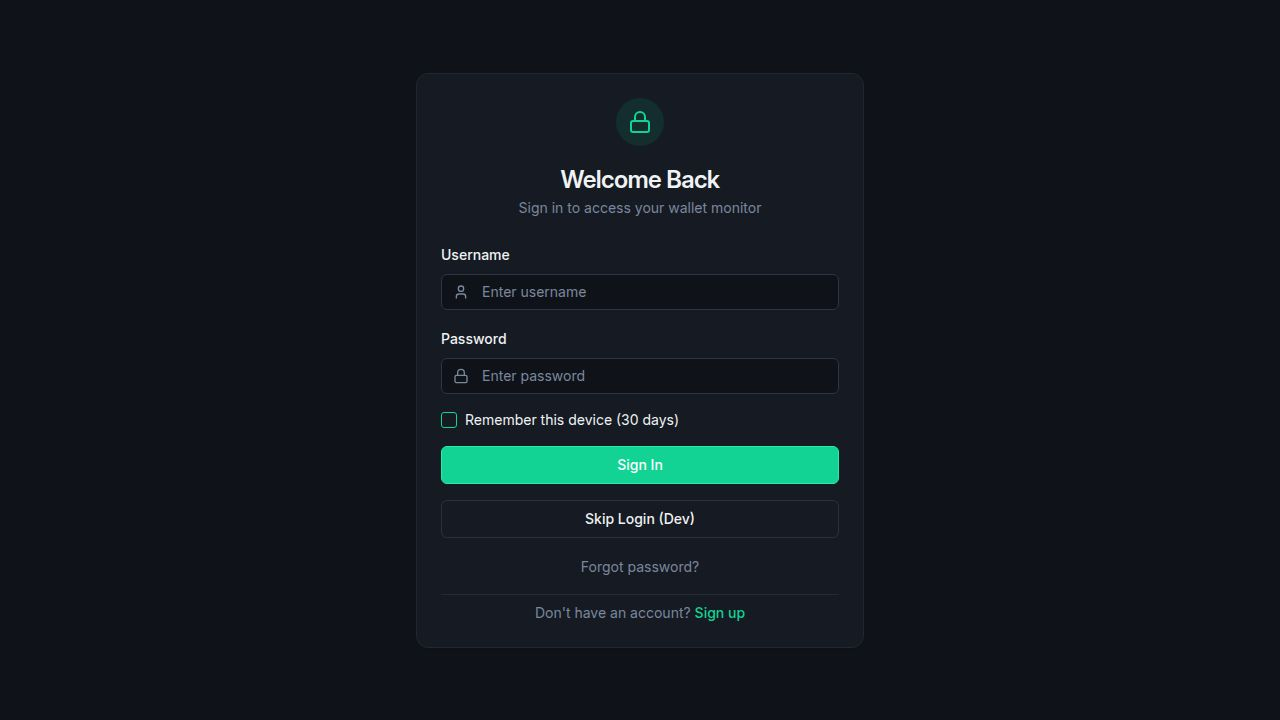
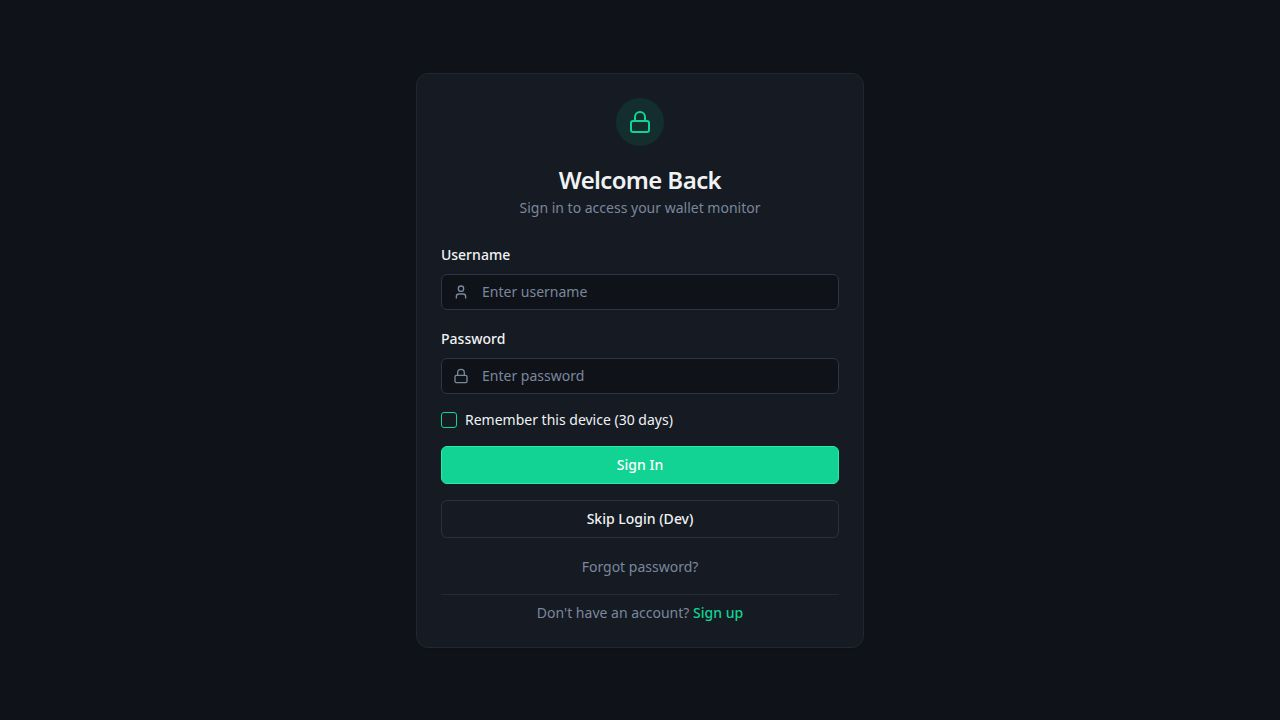
Improve mobile viewing experience across multiple application sections
Refactor UI components in discovery, settings, and signals pages to enhance mobile responsiveness, including horizontal scrolling for tabs and sort buttons, adaptive grids, and hidden overflow elements. Update portfolio logic to accurately calculate closed trade profits.

Replit-Commit-Author: Agent
Replit-Commit-Session-Id: aeb40e3a-a703-4b35-95a6-6bbd76a135b9
Replit-Commit-Checkpoint-Type: full_checkpoint
Replit-Commit-Event-Id: 6902c7e3-2c9b-4b43-bf09-fb0e61dcd495
Replit-Commit-Screenshot-Url: https://storage.googleapis.com/screenshot-production-us-central1/c0f79fcc-95c9-4f9e-b520-b0f0185c9272/aeb40e3a-a703-4b35-95a6-6bbd76a135b9/e7JhWYa
Replit-Helium-Checkpoint-Created: true

diff --git a/artifacts/penny-pincher/client/src/pages/discovery.tsx b/artifacts/penny-pincher/client/src/pages/discovery.tsx
@@ -425,7 +425,8 @@ function TokenRow({ token, rank }: { token: RankedToken; rank: number }) {
           <span className="text-sm font-mono text-muted-foreground">{formatVolume(token.volume24h)}</span>
         </div>
 
-        <div className="text-right w-12" data-testid={`score-heat-${token.tokenMint}`}>
+        {/* Heat — hidden on xs (< 640px) to prevent overflow in 480px shell */}
+        <div className="text-right hidden sm:block w-12" data-testid={`score-heat-${token.tokenMint}`}>
           <div className={`inline-flex items-center gap-0.5 text-xs font-mono px-1.5 py-0.5 rounded border ${scoreBg(heat)}`}>
             <Flame className={`h-3 w-3 ${scoreColor(heat)}`} />
             <span className={scoreColor(heat)}>{heat}</span>
@@ -453,20 +454,7 @@ function TokenRow({ token, rank }: { token: RankedToken; rank: number }) {
           )}
         </div>
 
-        <div className="flex items-center gap-1.5 w-16 justify-end">
-          {token.eventCount > 0 && (
-            <span className="text-xs text-muted-foreground flex items-center gap-0.5">
-              <Zap className="h-3 w-3 text-yellow-500" />{token.eventCount}
-            </span>
-          )}
-          {token.insightCount > 0 && (
-            <span className="text-xs text-muted-foreground flex items-center gap-0.5">
-              <Brain className="h-3 w-3 text-purple-500" />{token.insightCount}
-            </span>
-          )}
-        </div>
-
-        <ChevronRight className="h-4 w-4 text-muted-foreground" />
+        <ChevronRight className="h-4 w-4 text-muted-foreground flex-shrink-0" />
       </div>
     </Link>
   );
@@ -727,33 +715,36 @@ export default function DiscoveryPage() {
               </TabsList>
 
               {activeTab === "tokens" && (
-                <div className="flex items-center gap-3 flex-wrap">
-                  <div className="flex items-center gap-1">
-                    {(["1h", "6h", "24h", "7d"] as const).map((tf) => (
-                      <Button
-                        key={tf}
-                        variant={timeframe === tf ? "default" : "outline"}
-                        size="sm"
-                        onClick={() => setTimeframe(tf)}
-                        data-testid={`button-timeframe-${tf}`}
-                      >
-                        {tf}
-                      </Button>
-                    ))}
-                  </div>
-                  <span className="text-muted-foreground/30">|</span>
-                  <div className="flex items-center gap-1 flex-wrap">
-                    {sortOptions.map((opt) => (
-                      <Button
-                        key={opt.value}
-                        variant={tokenSort === opt.value ? "default" : "ghost"}
-                        size="sm"
-                        onClick={() => setTokenSort(opt.value)}
-                        data-testid={`button-sort-${opt.value}`}
-                      >
-                        {opt.label}
-                      </Button>
-                    ))}
+                <div className="flex flex-col gap-1 w-full sm:w-auto">
+                  {/* Timeframe + Sort — horizontally scrollable on 480px shell */}
+                  <div className="overflow-x-auto">
+                    <div className="flex items-center gap-1 pb-0.5 w-max">
+                      {(["1h", "6h", "24h", "7d"] as const).map((tf) => (
+                        <Button
+                          key={tf}
+                          variant={timeframe === tf ? "default" : "outline"}
+                          size="sm"
+                          onClick={() => setTimeframe(tf)}
+                          data-testid={`button-timeframe-${tf}`}
+                          className="px-2 h-7 text-xs"
+                        >
+                          {tf}
+                        </Button>
+                      ))}
+                      <span className="text-muted-foreground/30 px-1">|</span>
+                      {sortOptions.map((opt) => (
+                        <Button
+                          key={opt.value}
+                          variant={tokenSort === opt.value ? "default" : "ghost"}
+                          size="sm"
+                          onClick={() => setTokenSort(opt.value)}
+                          data-testid={`button-sort-${opt.value}`}
+                          className="px-2 h-7 text-xs"
+                        >
+                          {opt.label}
+                        </Button>
+                      ))}
+                    </div>
                   </div>
                 </div>
               )}
@@ -767,9 +758,8 @@ export default function DiscoveryPage() {
                     <span className="flex-1">Token</span>
                     <span className="text-right">Price / {timeframe}</span>
                     <span className="text-right hidden md:block w-20">Vol 24h</span>
-                    <span className="text-right w-12">Heat</span>
-                    <span className="text-right w-14">Pincher</span>
-                    <span className="w-16 text-right">Signals</span>
+                    <span className="text-right hidden sm:block w-12">Heat</span>
+                    <span className="text-right w-14">Score</span>
                     <span className="w-4"></span>
                   </div>
                   {tokensLoading ? (

diff --git a/artifacts/penny-pincher/client/src/pages/settings.tsx b/artifacts/penny-pincher/client/src/pages/settings.tsx
@@ -146,34 +146,37 @@ export default function SettingsPage() {
       </div>
 
       <Tabs defaultValue="api-keys" className="w-full">
-        <TabsList className={`grid w-full`} style={{ gridTemplateColumns: `repeat(${totalTabs}, minmax(0, 1fr))` }}>
-          <TabsTrigger value="api-keys" className="flex items-center gap-2" data-testid="tab-api-keys">
-            <Key className="h-4 w-4" />
-            <span className="hidden sm:inline">API Keys</span>
-          </TabsTrigger>
-          <TabsTrigger value="notifications" className="flex items-center gap-2" data-testid="tab-notifications">
-            <Bell className="h-4 w-4" />
-            <span className="hidden sm:inline">Alerts</span>
-          </TabsTrigger>
-          <TabsTrigger value="account" className="flex items-center gap-2" data-testid="tab-account">
-            <User className="h-4 w-4" />
-            <span className="hidden sm:inline">Account</span>
-          </TabsTrigger>
-          <TabsTrigger value="security" className="flex items-center gap-2" data-testid="tab-security">
-            <Lock className="h-4 w-4" />
-            <span className="hidden sm:inline">Security</span>
-          </TabsTrigger>
-          <TabsTrigger value="trading" className="flex items-center gap-2" data-testid="tab-trading">
-            <TrendingUp className="h-4 w-4" />
-            <span className="hidden sm:inline">Trading</span>
-          </TabsTrigger>
-          {isAdmin && (
-            <TabsTrigger value="admin" className="flex items-center gap-2" data-testid="tab-admin">
-              <Shield className="h-4 w-4" />
-              <span className="hidden sm:inline">Admin</span>
+        {/* Tabs scroll horizontally on narrow shells (480px) */}
+        <div className="overflow-x-auto -mx-0.5 px-0.5 pb-0.5">
+          <TabsList className="flex w-max min-w-full" data-testid="tabs-list-settings">
+            <TabsTrigger value="api-keys" className="flex items-center gap-1.5 flex-1 min-w-[60px]" data-testid="tab-api-keys">
+              <Key className="h-4 w-4 flex-shrink-0" />
+              <span className="text-xs">Keys</span>
             </TabsTrigger>
-          )}
-        </TabsList>
+            <TabsTrigger value="notifications" className="flex items-center gap-1.5 flex-1 min-w-[60px]" data-testid="tab-notifications">
+              <Bell className="h-4 w-4 flex-shrink-0" />
+              <span className="text-xs">Alerts</span>
+            </TabsTrigger>
+            <TabsTrigger value="account" className="flex items-center gap-1.5 flex-1 min-w-[60px]" data-testid="tab-account">
+              <User className="h-4 w-4 flex-shrink-0" />
+              <span className="text-xs">Account</span>
+            </TabsTrigger>
+            <TabsTrigger value="security" className="flex items-center gap-1.5 flex-1 min-w-[60px]" data-testid="tab-security">
+              <Lock className="h-4 w-4 flex-shrink-0" />
+              <span className="text-xs">Security</span>
+            </TabsTrigger>
+            <TabsTrigger value="trading" className="flex items-center gap-1.5 flex-1 min-w-[60px]" data-testid="tab-trading">
+              <TrendingUp className="h-4 w-4 flex-shrink-0" />
+              <span className="text-xs">Trading</span>
+            </TabsTrigger>
+            {isAdmin && (
+              <TabsTrigger value="admin" className="flex items-center gap-1.5 flex-1 min-w-[60px]" data-testid="tab-admin">
+                <Shield className="h-4 w-4 flex-shrink-0" />
+                <span className="text-xs">Admin</span>
+              </TabsTrigger>
+            )}
+          </TabsList>
+        </div>
 
         <TabsContent value="api-keys" className="mt-6">
           <ApiKeysSettings />

diff --git a/artifacts/penny-pincher/client/src/pages/portfolio.tsx b/artifacts/penny-pincher/client/src/pages/portfolio.tsx
@@ -414,17 +414,25 @@ function PortfolioGrid({
     const now = Math.floor(Date.now() / 1000);
     const cutoffs: Record<ClosedPeriod, number> = { "1H": now - 3600, "24H": now - 86400, "7D": now - 604800 };
     const cutoff = cutoffs[closedPeriod];
-    const sellSwaps = (swaps ?? []).filter(
-      (s) => s.timestamp >= cutoff && s.toToken === SOL_MINT
+
+    // Source of truth: reclaimed holdings (exited positions) within the period
+    const closed = (holdings ?? []).filter(
+      (h) => h.reclaimed && (h.reclaimTimestamp ?? 0) >= cutoff
     );
-    const wins = sellSwaps.filter((s) => {
-      const buy = (swaps ?? []).find(
-        (b) => b.toToken === s.fromToken && b.fromToken === SOL_MINT && b.timestamp < s.timestamp
+
+    const wins = closed.filter((h) => {
+      const costBasis = h.buyPrice * h.amountBought;
+      // Match the corresponding sell swap to get actual SOL received
+      const sellSwap = (swaps ?? []).find(
+        (s) => s.fromToken === h.tokenMint && s.toToken === SOL_MINT && s.timestamp >= h.buyTimestamp
       );
-      return buy ? s.toAmount > buy.fromAmount : false;
+      if (sellSwap) return sellSwap.toAmount > costBasis;
+      // Fallback if no sell swap found: treat highestMultiplier > 1 as a win
+      return (h.highestMultiplier ?? 1) > 1;
     });
-    return { total: sellSwaps.length, wins: wins.length, losses: sellSwaps.length - wins.length };
-  }, [swaps, closedPeriod]);
+
+    return { total: closed.length, wins: wins.length, losses: closed.length - wins.length };
+  }, [holdings, swaps, closedPeriod]);
 
   const tiles: { label: React.ReactNode; value: string; sub: string; color: string; testId: string }[] = [
     {

diff --git a/artifacts/penny-pincher/client/src/pages/signals.tsx b/artifacts/penny-pincher/client/src/pages/signals.tsx
@@ -272,7 +272,7 @@ export default function SignalsPage() {
             <CardDescription>Enter a Solana wallet address to monitor for trade signals</CardDescription>
           </CardHeader>
           <CardContent className="space-y-3">
-            <div className="grid gap-3 md:grid-cols-2">
+            <div className="grid gap-3">
               <div className="space-y-2">
                 <Label htmlFor="wallet-address">Wallet Address</Label>
                 <Input
@@ -310,7 +310,7 @@ export default function SignalsPage() {
         </Card>
       )}
 
-      <div className="grid gap-4 md:grid-cols-4">
+      <div className="grid gap-4 grid-cols-2 md:grid-cols-4">
         <Card data-testid="card-total-signals">
           <CardHeader className="pb-2">
             <CardDescription>Signal Wallets</CardDescription>